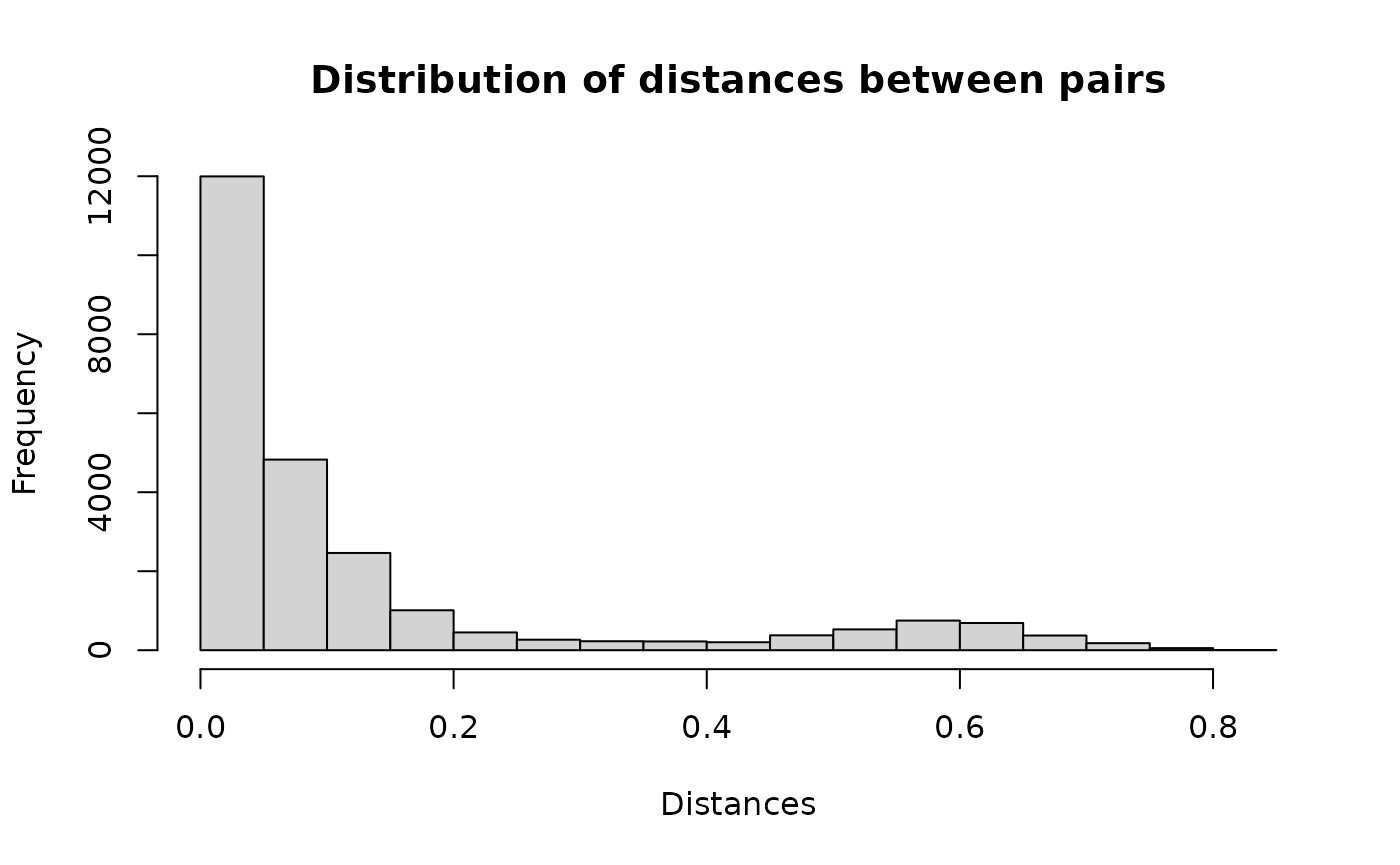
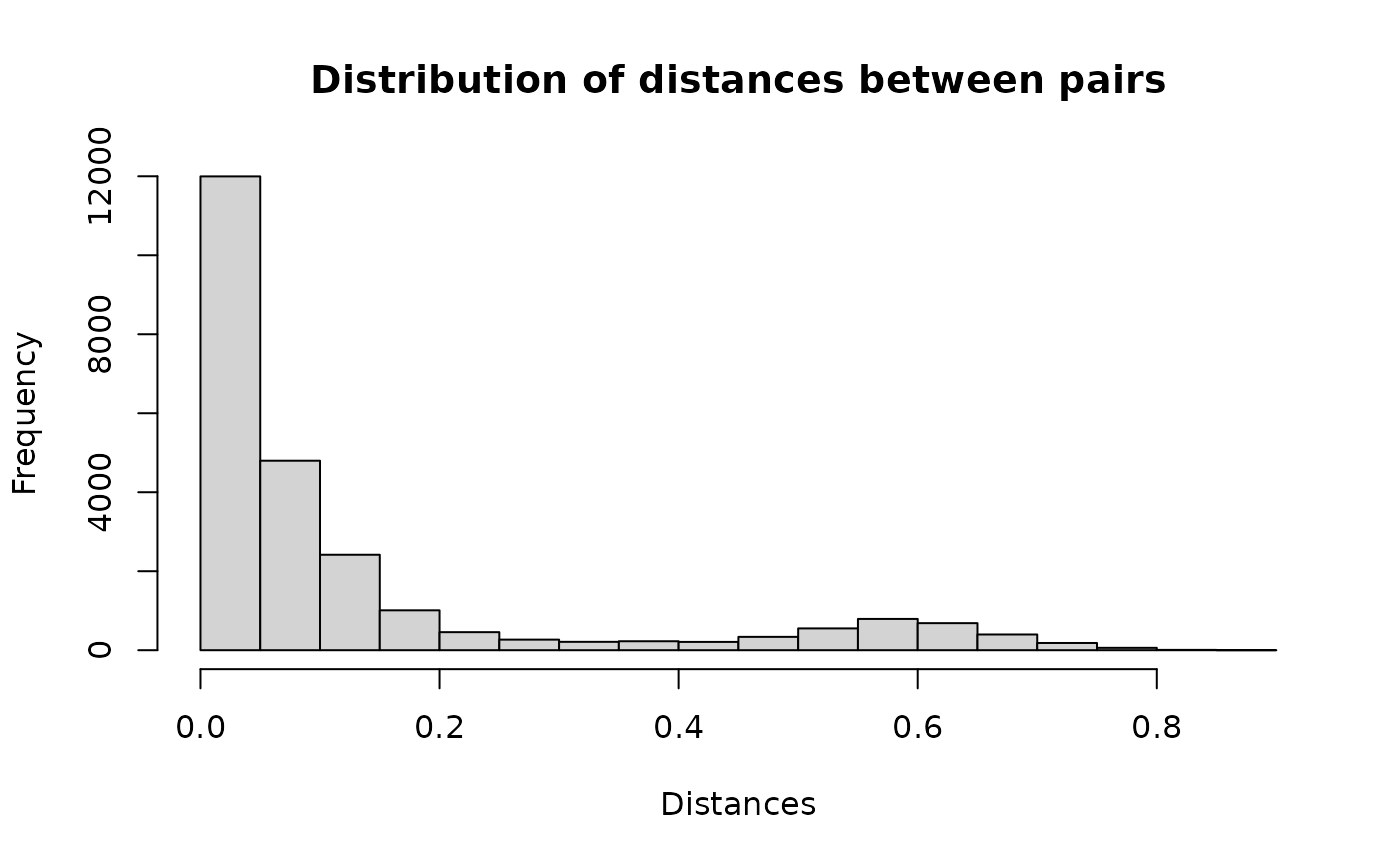
Deploying to gh-pages from @ ncn-foreigners/blocking@5326b6e4bf938211969ae4dd767351e2aa68c622 🚀

diff --git a/articles/v2-reclin.html b/articles/v2-reclin.html
@@ -94,7 +94,8 @@ Beręsewicz</h4>
 <code class="sourceCode R"><span><span class="kw"><a href="https://rdrr.io/r/base/library.html" class="external-link">library</a></span><span class="op">(</span><span class="va"><a href="https://github.com/ncn-foreigners/blocking" class="external-link">blocking</a></span><span class="op">)</span></span>
 <span><span class="kw"><a href="https://rdrr.io/r/base/library.html" class="external-link">library</a></span><span class="op">(</span><span class="va"><a href="https://github.com/djvanderlaan/reclin2" class="external-link">reclin2</a></span><span class="op">)</span></span>
 <span><span class="co">#&gt; Loading required package: data.table</span></span>
-<span><span class="kw"><a href="https://rdrr.io/r/base/library.html" class="external-link">library</a></span><span class="op">(</span><span class="va"><a href="https://r-datatable.com" class="external-link">data.table</a></span><span class="op">)</span></span></code></pre></div>
+<span><span class="kw"><a href="https://rdrr.io/r/base/library.html" class="external-link">library</a></span><span class="op">(</span><span class="va"><a href="https://r-datatable.com" class="external-link">data.table</a></span><span class="op">)</span></span>
+<span><span class="kw"><a href="https://rdrr.io/r/base/library.html" class="external-link">library</a></span><span class="op">(</span><span class="va"><a href="https://jlmelville.github.io/rnndescent/" class="external-link">rnndescent</a></span><span class="op">)</span></span></code></pre></div>
 </div>
 <div class="section level2">
 <h2 id="data">Data<a class="anchor" aria-label="anchor" href="#data"></a>
@@ -198,72 +199,68 @@ replace <code>NA</code>s with <code>''</code>.</p>
 <p>The goal of this exercise is to link units from the CIS dataset to
 the CENSUS dataset.</p>
 <div class="sourceCode" id="cb7"><pre class="downlit sourceCode r">
-<code class="sourceCode R"><span><span class="va">result1</span> <span class="op">&lt;-</span> <span class="fu"><a href="../reference/blocking.html">blocking</a></span><span class="op">(</span>x <span class="op">=</span> <span class="va">census</span><span class="op">$</span><span class="va">txt</span>, y <span class="op">=</span> <span class="va">cis</span><span class="op">$</span><span class="va">txt</span>, verbose <span class="op">=</span> <span class="fl">1</span>, seed <span class="op">=</span> <span class="fl">2024</span><span class="op">)</span></span>
+<code class="sourceCode R"><span><span class="fu"><a href="https://rdrr.io/r/base/Random.html" class="external-link">set.seed</a></span><span class="op">(</span><span class="fl">2024</span><span class="op">)</span></span>
+<span><span class="va">result1</span> <span class="op">&lt;-</span> <span class="fu"><a href="../reference/blocking.html">blocking</a></span><span class="op">(</span>x <span class="op">=</span> <span class="va">census</span><span class="op">$</span><span class="va">txt</span>, y <span class="op">=</span> <span class="va">cis</span><span class="op">$</span><span class="va">txt</span>, verbose <span class="op">=</span> <span class="fl">1</span><span class="op">)</span></span>
 <span><span class="co">#&gt; ===== creating tokens =====</span></span>
 <span><span class="co">#&gt; ===== starting search (nnd, x, y: 25343, 24613, t: 1079) =====</span></span>
 <span><span class="co">#&gt; ===== creating graph =====</span></span></code></pre></div>
-<p>Distribution of distances for pairs</p>
+<p>Distribution of distances for each pair.</p>
 <div class="sourceCode" id="cb8"><pre class="downlit sourceCode r">
 <code class="sourceCode R"><span><span class="fu"><a href="https://rdrr.io/r/graphics/hist.html" class="external-link">hist</a></span><span class="op">(</span><span class="va">result1</span><span class="op">$</span><span class="va">result</span><span class="op">$</span><span class="va">dist</span>, main <span class="op">=</span> <span class="st">"Distribution of distances between pairs"</span>, xlab <span class="op">=</span> <span class="st">"Distances"</span><span class="op">)</span></span></code></pre></div>
 <p><img src="v2-reclin_files/figure-html/unnamed-chunk-7-1.png" width="700"></p>
-<p>Example pairs</p>
+<p>Example pairs.</p>
 <div class="sourceCode" id="cb9"><pre class="downlit sourceCode r">
 <code class="sourceCode R"><span><span class="fu"><a href="https://rdrr.io/r/utils/head.html" class="external-link">head</a></span><span class="op">(</span><span class="va">result1</span><span class="op">$</span><span class="va">result</span>, n<span class="op">=</span> <span class="fl">10</span><span class="op">)</span></span>
 <span><span class="co">#&gt;         x     y block       dist</span></span>
 <span><span class="co">#&gt;     &lt;int&gt; &lt;int&gt; &lt;num&gt;      &lt;num&gt;</span></span>
-<span><span class="co">#&gt;  1:     3 20590 17979 0.01290381</span></span>
-<span><span class="co">#&gt;  2:     4 18456 16292 0.07158586</span></span>
-<span><span class="co">#&gt;  3:     5 17257 15354 0.05370842</span></span>
-<span><span class="co">#&gt;  4:     6 19868 17425 0.05675775</span></span>
-<span><span class="co">#&gt;  5:     7 11183 10246 0.00000000</span></span>
-<span><span class="co">#&gt;  6:    10  9370  8668 0.08233700</span></span>
-<span><span class="co">#&gt;  7:    10  9785  8668 0.66230919</span></span>
-<span><span class="co">#&gt;  8:    11  7247  6794 0.04881026</span></span>
-<span><span class="co">#&gt;  9:    11  7249  6794 0.39135537</span></span>
-<span><span class="co">#&gt; 10:    13  5852  5555 0.00000000</span></span></code></pre></div>
-<p>Let’s look at the first pair. Clearly there is a typo on the
-<code>pername1</code> but all other variables are the same so it seems
-that this is a match.</p>
+<span><span class="co">#&gt;  1:     1  8152  7613 0.02941162</span></span>
+<span><span class="co">#&gt;  2:     2  8584  8014 0.04878049</span></span>
+<span><span class="co">#&gt;  3:     3 20590 17964 0.01290381</span></span>
+<span><span class="co">#&gt;  4:     4 18456 16275 0.07158586</span></span>
+<span><span class="co">#&gt;  5:     5 17257 15339 0.05370842</span></span>
+<span><span class="co">#&gt;  6:     6 19868 17399 0.05675775</span></span>
+<span><span class="co">#&gt;  7:     7 11183 10283 0.00000000</span></span>
+<span><span class="co">#&gt;  8:    10   432   432 0.61050958</span></span>
+<span><span class="co">#&gt;  9:    10  9370   432 0.08233700</span></span>
+<span><span class="co">#&gt; 10:    11  7247  6825 0.04881026</span></span></code></pre></div>
+<p>Let’s take a look at the first pair. Obviously there is a typo in the
+<code>pername1</code>, but all the other variables are the same, so it
+appears to be a match.</p>
 <div class="sourceCode" id="cb10"><pre class="downlit sourceCode r">
-<code class="sourceCode R"><span><span class="va">census</span><span class="op">[</span><span class="fl">1</span>, <span class="op">]</span></span>
-<span><span class="co">#&gt;       person_id pername1 pername2    sex dob_day dob_mon dob_year</span></span>
-<span><span class="co">#&gt;          &lt;char&gt;   &lt;char&gt;   &lt;char&gt; &lt;char&gt;   &lt;int&gt;   &lt;int&gt;    &lt;int&gt;</span></span>
-<span><span class="co">#&gt; 1: DE03US001001    COUIE    PRICE      M       1       6     1960</span></span>
-<span><span class="co">#&gt;           enumcap enumpc                                   txt</span></span>
-<span><span class="co">#&gt;            &lt;char&gt; &lt;char&gt;                                &lt;char&gt;</span></span>
-<span><span class="co">#&gt; 1: 1 WINDSOR ROAD DE03US COUIEPRICEM1619601 WINDSOR ROADDE03US</span></span>
-<span><span class="va">cis</span><span class="op">[</span><span class="fl">8152</span>, <span class="op">]</span></span>
-<span><span class="co">#&gt;    person_id pername1 pername2    sex dob_day dob_mon dob_year        enumcap</span></span>
-<span><span class="co">#&gt;       &lt;char&gt;   &lt;char&gt;   &lt;char&gt; &lt;char&gt;   &lt;int&gt;   &lt;int&gt;    &lt;int&gt;         &lt;char&gt;</span></span>
-<span><span class="co">#&gt; 1:      &lt;NA&gt;    LOUIE    PRICE      M       1       6     1960 1 WINDSOR ROAD</span></span>
-<span><span class="co">#&gt;    enumpc                                   txt</span></span>
-<span><span class="co">#&gt;    &lt;char&gt;                                &lt;char&gt;</span></span>
-<span><span class="co">#&gt; 1: DE03US LOUIEPRICEM1619601 WINDSOR ROADDE03US</span></span></code></pre></div>
+<code class="sourceCode R"><span><span class="fu"><a href="https://rdrr.io/r/base/cbind.html" class="external-link">cbind</a></span><span class="op">(</span><span class="fu"><a href="https://rdrr.io/r/base/t.html" class="external-link">t</a></span><span class="op">(</span><span class="va">census</span><span class="op">[</span><span class="fl">1</span>, <span class="fl">1</span><span class="op">:</span><span class="fl">9</span><span class="op">]</span><span class="op">)</span>, <span class="fu"><a href="https://rdrr.io/r/base/t.html" class="external-link">t</a></span><span class="op">(</span><span class="va">cis</span><span class="op">[</span><span class="fl">8152</span>, <span class="fl">1</span><span class="op">:</span><span class="fl">9</span><span class="op">]</span><span class="op">)</span><span class="op">)</span></span>
+<span><span class="co">#&gt;           [,1]             [,2]            </span></span>
+<span><span class="co">#&gt; person_id "DE03US001001"   NA              </span></span>
+<span><span class="co">#&gt; pername1  "COUIE"          "LOUIE"         </span></span>
+<span><span class="co">#&gt; pername2  "PRICE"          "PRICE"         </span></span>
+<span><span class="co">#&gt; sex       "M"              "M"             </span></span>
+<span><span class="co">#&gt; dob_day   "1"              "1"             </span></span>
+<span><span class="co">#&gt; dob_mon   "6"              "6"             </span></span>
+<span><span class="co">#&gt; dob_year  "1960"           "1960"          </span></span>
+<span><span class="co">#&gt; enumcap   "1 WINDSOR ROAD" "1 WINDSOR ROAD"</span></span>
+<span><span class="co">#&gt; enumpc    "DE03US"         "DE03US"</span></span></code></pre></div>
 <p>Now, let’s look at the 7th pair with the largest distance from the
 first 10 rows. This seems to be a non-match because only
 <code>pername2</code> and <code>sex</code> are the same.</p>
 <div class="sourceCode" id="cb11"><pre class="downlit sourceCode r">
-<code class="sourceCode R"><span><span class="va">census</span><span class="op">[</span><span class="fl">8</span>, <span class="op">]</span></span>
-<span><span class="co">#&gt;       person_id pername1 pername2    sex dob_day dob_mon dob_year</span></span>
-<span><span class="co">#&gt;          &lt;char&gt;   &lt;char&gt;   &lt;char&gt; &lt;char&gt;   &lt;int&gt;   &lt;int&gt;    &lt;int&gt;</span></span>
-<span><span class="co">#&gt; 1: DE03US003001   NATMAN  RUSSELL      M      11      11     1934</span></span>
-<span><span class="co">#&gt;           enumcap enumpc                                        txt</span></span>
-<span><span class="co">#&gt;            &lt;char&gt; &lt;char&gt;                                     &lt;char&gt;</span></span>
-<span><span class="co">#&gt; 1: 3 WINDSOR ROAD DE03US NATMANRUSSELLM111119343 WINDSOR ROADDE03US</span></span>
-<span><span class="va">cis</span><span class="op">[</span><span class="fl">3901</span>, <span class="op">]</span></span>
-<span><span class="co">#&gt;    person_id pername1 pername2    sex dob_day dob_mon dob_year      enumcap</span></span>
-<span><span class="co">#&gt;       &lt;char&gt;   &lt;char&gt;   &lt;char&gt; &lt;char&gt;   &lt;int&gt;   &lt;int&gt;    &lt;int&gt;       &lt;char&gt;</span></span>
-<span><span class="co">#&gt; 1:      &lt;NA&gt;    AYAAN  RUSSELL      M      10      10     1943 112 KINGSWAY</span></span>
-<span><span class="co">#&gt;     enumpc                                      txt</span></span>
-<span><span class="co">#&gt;     &lt;char&gt;                                   &lt;char&gt;</span></span>
-<span><span class="co">#&gt; 1: SO879UN AYAANRUSSELLM10101943112 KINGSWAYSO879UN</span></span></code></pre></div>
+<code class="sourceCode R"><span><span class="fu"><a href="https://rdrr.io/r/base/cbind.html" class="external-link">cbind</a></span><span class="op">(</span> <span class="fu"><a href="https://rdrr.io/r/base/t.html" class="external-link">t</a></span><span class="op">(</span><span class="va">census</span><span class="op">[</span><span class="fl">8</span>, <span class="fl">1</span><span class="op">:</span><span class="fl">9</span><span class="op">]</span><span class="op">)</span>, <span class="fu"><a href="https://rdrr.io/r/base/t.html" class="external-link">t</a></span><span class="op">(</span><span class="va">cis</span><span class="op">[</span><span class="fl">3901</span>, <span class="fl">1</span><span class="op">:</span><span class="fl">9</span><span class="op">]</span><span class="op">)</span><span class="op">)</span></span>
+<span><span class="co">#&gt;           [,1]             [,2]          </span></span>
+<span><span class="co">#&gt; person_id "DE03US003001"   NA            </span></span>
+<span><span class="co">#&gt; pername1  "NATMAN"         "AYAAN"       </span></span>
+<span><span class="co">#&gt; pername2  "RUSSELL"        "RUSSELL"     </span></span>
+<span><span class="co">#&gt; sex       "M"              "M"           </span></span>
+<span><span class="co">#&gt; dob_day   "11"             "10"          </span></span>
+<span><span class="co">#&gt; dob_mon   "11"             "10"          </span></span>
+<span><span class="co">#&gt; dob_year  "1934"           "1943"        </span></span>
+<span><span class="co">#&gt; enumcap   "3 WINDSOR ROAD" "112 KINGSWAY"</span></span>
+<span><span class="co">#&gt; enumpc    "DE03US"         "SO879UN"</span></span></code></pre></div>
 </div>
 <div class="section level3">
 <h3 id="assessing-the-quality">Assessing the quality<a class="anchor" aria-label="anchor" href="#assessing-the-quality"></a>
 </h3>
-<p>For some records we have information on the correct linkage. We can
-use this information to assess our approach but note that information on
-assessing the quality is described in detail in the other vignette.</p>
+<p>For some records, we have information about the correct linkage. We
+can use this information to evaluate our approach, but note that the
+information for evaluating quality is described in detail in the other
+vignette.</p>
 <div class="sourceCode" id="cb12"><pre class="downlit sourceCode r">
 <code class="sourceCode R"><span><span class="va">matches</span> <span class="op">&lt;-</span> <span class="fu"><a href="https://rdrr.io/r/base/merge.html" class="external-link">merge</a></span><span class="op">(</span>x <span class="op">=</span> <span class="va">census</span><span class="op">[</span>, <span class="fu">.</span><span class="op">(</span>x<span class="op">=</span><span class="fl">1</span><span class="op">:</span><span class="va">.N</span>, <span class="va">person_id</span><span class="op">)</span><span class="op">]</span>,</span>
 <span>                 y <span class="op">=</span> <span class="va">cis</span><span class="op">[</span>, <span class="fu">.</span><span class="op">(</span>y <span class="op">=</span> <span class="fl">1</span><span class="op">:</span><span class="va">.N</span>, <span class="va">person_id</span><span class="op">)</span><span class="op">]</span>,</span>
@@ -281,7 +278,8 @@ assessing the quality is described in detail in the other vignette.</p>
 <span><span class="co">#&gt; 6: DE125LU016001   126 11309     6</span></span></code></pre></div>
 <p>So in our example we have 971 pairs.</p>
 <div class="sourceCode" id="cb13"><pre class="downlit sourceCode r">
-<code class="sourceCode R"><span><span class="va">result2</span> <span class="op">&lt;-</span> <span class="fu"><a href="../reference/blocking.html">blocking</a></span><span class="op">(</span>x <span class="op">=</span> <span class="va">census</span><span class="op">$</span><span class="va">txt</span>, y <span class="op">=</span> <span class="va">cis</span><span class="op">$</span><span class="va">txt</span>, verbose <span class="op">=</span> <span class="fl">1</span>, seed <span class="op">=</span> <span class="fl">2024</span>,</span>
+<code class="sourceCode R"><span><span class="fu"><a href="https://rdrr.io/r/base/Random.html" class="external-link">set.seed</a></span><span class="op">(</span><span class="fl">2024</span><span class="op">)</span></span>
+<span><span class="va">result2</span> <span class="op">&lt;-</span> <span class="fu"><a href="../reference/blocking.html">blocking</a></span><span class="op">(</span>x <span class="op">=</span> <span class="va">census</span><span class="op">$</span><span class="va">txt</span>, y <span class="op">=</span> <span class="va">cis</span><span class="op">$</span><span class="va">txt</span>, verbose <span class="op">=</span> <span class="fl">1</span>,</span>
 <span>                    true_blocks <span class="op">=</span> <span class="va">matches</span><span class="op">[</span>, <span class="fu">.</span><span class="op">(</span><span class="va">x</span>, <span class="va">y</span>, <span class="va">block</span><span class="op">)</span><span class="op">]</span>, n_threads <span class="op">=</span> <span class="fl">4</span><span class="op">)</span></span>
 <span><span class="co">#&gt; ===== creating tokens =====</span></span>
 <span><span class="co">#&gt; ===== starting search (nnd, x, y: 25343, 24613, t: 1079) =====</span></span>
@@ -291,46 +289,89 @@ assessing the quality is described in detail in the other vignette.</p>
 <code class="sourceCode R"><span><span class="va">result2</span></span>
 <span><span class="co">#&gt; ========================================================</span></span>
 <span><span class="co">#&gt; Blocking based on the nnd method.</span></span>
-<span><span class="co">#&gt; Number of blocks: 21385.</span></span>
+<span><span class="co">#&gt; Number of blocks: 21290.</span></span>
 <span><span class="co">#&gt; Number of columns used for blocking: 1079.</span></span>
 <span><span class="co">#&gt; Reduction ratio: 1.0000.</span></span>
 <span><span class="co">#&gt; ========================================================</span></span>
 <span><span class="co">#&gt; Distribution of the size of the blocks:</span></span>
-<span><span class="co">#&gt;     2     3     4     5 </span></span>
-<span><span class="co">#&gt; 18466  2636   257    26 </span></span>
+<span><span class="co">#&gt;     2     3     4     5     6 </span></span>
+<span><span class="co">#&gt; 18333  2627   297    30     3 </span></span>
 <span><span class="co">#&gt; ========================================================</span></span>
 <span><span class="co">#&gt; Evaluation metrics (standard):</span></span></code></pre></div>
-<p>It seems that default parameters of the NND method result in FNR of
-16% which is quite large. Let’s compare to HNSW algorithm.</p>
+<p>It seems that the default parameters of the NND method result in an
+FNR of 16.9%, which is quite large. We can see if increasing the number
+of <code>k</code> (and thus <code>max_candidates</code>) as suggested in
+the <a href="https://jlmelville.github.io/rnndescent/articles/nearest-neighbor-descent.html" class="external-link">Nearest
+Neighbor Descent</a> vignette will help.</p>
 <div class="sourceCode" id="cb15"><pre class="downlit sourceCode r">
-<code class="sourceCode R"><span><span class="va">result3</span> <span class="op">&lt;-</span> <span class="fu"><a href="../reference/blocking.html">blocking</a></span><span class="op">(</span>x <span class="op">=</span> <span class="va">census</span><span class="op">$</span><span class="va">txt</span>, y <span class="op">=</span> <span class="va">cis</span><span class="op">$</span><span class="va">txt</span>, seed <span class="op">=</span> <span class="fl">2024</span>, verbose <span class="op">=</span> <span class="fl">1</span>, </span>
+<code class="sourceCode R"><span><span class="fu"><a href="https://rdrr.io/r/base/Random.html" class="external-link">set.seed</a></span><span class="op">(</span><span class="fl">2024</span><span class="op">)</span></span>
+<span><span class="va">ann_control_pars</span> <span class="op">&lt;-</span> <span class="fu"><a href="../reference/controls_ann.html">controls_ann</a></span><span class="op">(</span><span class="op">)</span></span>
+<span><span class="va">ann_control_pars</span><span class="op">$</span><span class="va">nnd</span><span class="op">$</span><span class="va">k_build</span> <span class="op">&lt;-</span> <span class="fl">60</span></span>
+<span></span>
+<span><span class="va">result3</span> <span class="op">&lt;-</span> <span class="fu"><a href="../reference/blocking.html">blocking</a></span><span class="op">(</span>x <span class="op">=</span> <span class="va">census</span><span class="op">$</span><span class="va">txt</span>, y <span class="op">=</span> <span class="va">cis</span><span class="op">$</span><span class="va">txt</span>, verbose <span class="op">=</span> <span class="fl">1</span>, </span>
 <span>                    true_blocks <span class="op">=</span> <span class="va">matches</span><span class="op">[</span>, <span class="fu">.</span><span class="op">(</span><span class="va">x</span>, <span class="va">y</span>, <span class="va">block</span><span class="op">)</span><span class="op">]</span>, n_threads <span class="op">=</span> <span class="fl">4</span>, </span>
-<span>                    ann <span class="op">=</span> <span class="st">"hnsw"</span><span class="op">)</span></span>
+<span>                    control_ann <span class="op">=</span> <span class="va">ann_control_pars</span><span class="op">)</span></span>
 <span><span class="co">#&gt; ===== creating tokens =====</span></span>
-<span><span class="co">#&gt; ===== starting search (hnsw, x, y: 25343, 24613, t: 1079) =====</span></span>
+<span><span class="co">#&gt; ===== starting search (nnd, x, y: 25343, 24613, t: 1079) =====</span></span>
 <span><span class="co">#&gt; ===== creating graph =====</span></span></code></pre></div>
+<p>Changing the <code>k_build</code> parameter from 30 to 60 decreased
+the FDR to 8.3%.</p>
 <div class="sourceCode" id="cb16"><pre class="downlit sourceCode r">
 <code class="sourceCode R"><span><span class="va">result3</span></span>
 <span><span class="co">#&gt; ========================================================</span></span>
+<span><span class="co">#&gt; Blocking based on the nnd method.</span></span>
+<span><span class="co">#&gt; Number of blocks: 22430.</span></span>
+<span><span class="co">#&gt; Number of columns used for blocking: 1079.</span></span>
+<span><span class="co">#&gt; Reduction ratio: 1.0000.</span></span>
+<span><span class="co">#&gt; ========================================================</span></span>
+<span><span class="co">#&gt; Distribution of the size of the blocks:</span></span>
+<span><span class="co">#&gt;     2     3     4     5     6 </span></span>
+<span><span class="co">#&gt; 20392  1908   116    13     1 </span></span>
+<span><span class="co">#&gt; ========================================================</span></span>
+<span><span class="co">#&gt; Evaluation metrics (standard):</span></span></code></pre></div>
+<p>Finally, compare the NND and HNSW algorithm for this example.</p>
+<div class="sourceCode" id="cb17"><pre class="downlit sourceCode r">
+<code class="sourceCode R"><span><span class="va">result4</span> <span class="op">&lt;-</span> <span class="fu"><a href="../reference/blocking.html">blocking</a></span><span class="op">(</span>x <span class="op">=</span> <span class="va">census</span><span class="op">$</span><span class="va">txt</span>, y <span class="op">=</span> <span class="va">cis</span><span class="op">$</span><span class="va">txt</span>, verbose <span class="op">=</span> <span class="fl">1</span>, </span>
+<span>                    true_blocks <span class="op">=</span> <span class="va">matches</span><span class="op">[</span>, <span class="fu">.</span><span class="op">(</span><span class="va">x</span>, <span class="va">y</span>, <span class="va">block</span><span class="op">)</span><span class="op">]</span>, n_threads <span class="op">=</span> <span class="fl">4</span>, </span>
+<span>                    ann <span class="op">=</span> <span class="st">"hnsw"</span>, seed <span class="op">=</span> <span class="fl">2024</span><span class="op">)</span></span>
+<span><span class="co">#&gt; ===== creating tokens =====</span></span>
+<span><span class="co">#&gt; ===== starting search (hnsw, x, y: 25343, 24613, t: 1079) =====</span></span>
+<span><span class="co">#&gt; ===== creating graph =====</span></span></code></pre></div>
+<p>It seems that the HNSW algorithm performed better with 0.62% FNR.</p>
+<div class="sourceCode" id="cb18"><pre class="downlit sourceCode r">
+<code class="sourceCode R"><span><span class="va">result4</span></span>
+<span><span class="co">#&gt; ========================================================</span></span>
 <span><span class="co">#&gt; Blocking based on the hnsw method.</span></span>
-<span><span class="co">#&gt; Number of blocks: 23984.</span></span>
+<span><span class="co">#&gt; Number of blocks: 23985.</span></span>
 <span><span class="co">#&gt; Number of columns used for blocking: 1079.</span></span>
 <span><span class="co">#&gt; Reduction ratio: 1.0000.</span></span>
 <span><span class="co">#&gt; ========================================================</span></span>
 <span><span class="co">#&gt; Distribution of the size of the blocks:</span></span>
 <span><span class="co">#&gt;     2     3     4     5 </span></span>
-<span><span class="co">#&gt; 23371   598    14     1 </span></span>
+<span><span class="co">#&gt; 23373   597    14     1 </span></span>
 <span><span class="co">#&gt; ========================================================</span></span>
 <span><span class="co">#&gt; Evaluation metrics (standard):</span></span></code></pre></div>
-<p>It seems that the HNSW algorithm performed better with 0.62% FNR.
-This however comes with cost, in particupar computational cost:</p>
+<p>However, this comes at a cost, especially in terms of
+computation:</p>
 <ol style="list-style-type: decimal">
-<li>the HNSW does not handle sparse matrices so sparse matrix of tokens
-is converted to dense.</li>
-<li>HNSW algorithm is slower than NND.</li>
+<li>the HNSW does not handle sparse matrices, so a sparse matrix of
+tokens must be converted to dense or provided line by line.</li>
+<li>The HNSW algorithm is slower than NND.</li>
 </ol>
-<p>Computational times are: 16 seconds for NND and about 60 HNSW (on M2
-MacBook AIR).</p>
+<p>Computation times are: 16 seconds for NND and about 60 for HNSW (on
+M2 MacBook AIR). We can improve the time by changing the parameters
+<code>M</code> and <code>ef_s</code> in the <code><a href="../reference/controls_ann.html">controls_ann()</a></code>
+function (e.g. setting <code>M=16</code> and <code>ef_s=15</code> leads
+to about 16 seconds with 1% FNR).</p>
+</div>
+<div class="section level3">
+<h3 id="compare-results">Compare results<a class="anchor" aria-label="anchor" href="#compare-results"></a>
+</h3>
+<p>Finally, we can compare the results of two ANN algorithms. The
+overlap between neighbours is given by</p>
+<div class="sourceCode" id="cb19"><pre class="downlit sourceCode r">
+<code class="sourceCode R"><span><span class="fu"><a href="https://rdrr.io/r/base/mean.html" class="external-link">mean</a></span><span class="op">(</span><span class="va">result3</span><span class="op">$</span><span class="va">result</span><span class="op">[</span><span class="fu"><a href="https://rdrr.io/r/base/order.html" class="external-link">order</a></span><span class="op">(</span><span class="va">y</span><span class="op">)</span><span class="op">]</span><span class="op">$</span><span class="va">x</span> <span class="op">==</span> <span class="va">result4</span><span class="op">$</span><span class="va">result</span><span class="op">[</span><span class="fu"><a href="https://rdrr.io/r/base/order.html" class="external-link">order</a></span><span class="op">(</span><span class="va">y</span><span class="op">)</span><span class="op">]</span><span class="op">$</span><span class="va">x</span><span class="op">)</span><span class="op">*</span><span class="fl">100</span></span>
+<span><span class="co">#&gt; [1] 91.8864</span></span></code></pre></div>
 </div>
 </div>
   </main><aside class="col-md-3"><nav id="toc"><h2>On this page</h2>

diff --git a/articles/v4-integration.html b/articles/v4-integration.html
@@ -92,8 +92,7 @@ Beręsewicz</h4>
 <div class="sourceCode" id="cb1"><pre class="downlit sourceCode r">
 <code class="sourceCode R"><span><span class="kw"><a href="https://rdrr.io/r/base/library.html" class="external-link">library</a></span><span class="op">(</span><span class="va"><a href="https://github.com/ncn-foreigners/blocking" class="external-link">blocking</a></span><span class="op">)</span></span>
 <span><span class="kw"><a href="https://rdrr.io/r/base/library.html" class="external-link">library</a></span><span class="op">(</span><span class="va"><a href="https://github.com/djvanderlaan/reclin2" class="external-link">reclin2</a></span><span class="op">)</span></span>
-<span><span class="co">#&gt; Loading required package: data.table</span></span>
-<span><span class="kw"><a href="https://rdrr.io/r/base/library.html" class="external-link">library</a></span><span class="op">(</span><span class="va">fastLink</span><span class="op">)</span></span></code></pre></div>
+<span><span class="co">#&gt; Loading required package: data.table</span></span></code></pre></div>
 </div>
 <div class="section level2">
 <h2 id="data">Data<a class="anchor" aria-label="anchor" href="#data"></a>
@@ -223,10 +222,19 @@ package.</p>
 <div class="section level2">
 <h2 id="usage-with-fastlink-package">Usage with <code>fastLink</code> package<a class="anchor" aria-label="anchor" href="#usage-with-fastlink-package"></a>
 </h2>
+<p>Just use the <code>block</code> column in the function
+<code>fastLink::blockData()</code>. As a result you will obtain a list
+of records blocked for further processing.</p>
 </div>
 <div class="section level2">
 <h2 id="usage-with-recordlinkage-package">Usage with <code>RecordLinkage</code> package<a class="anchor" aria-label="anchor" href="#usage-with-recordlinkage-package"></a>
 </h2>
+<p>Just use the <code>block</code> column in the argument
+<code>blockfld</code> in the <code>compare.dedup()</code> or
+<code>compare.linkage()</code> function. Please note that
+<code>block</code> column for the <code>RecordLinkage</code> package
+should be stored as a <code>character</code> not a
+<code>numeric/integer</code> vector.</p>
 </div>
   </main><aside class="col-md-3"><nav id="toc"><h2>On this page</h2>
     </nav></aside>
